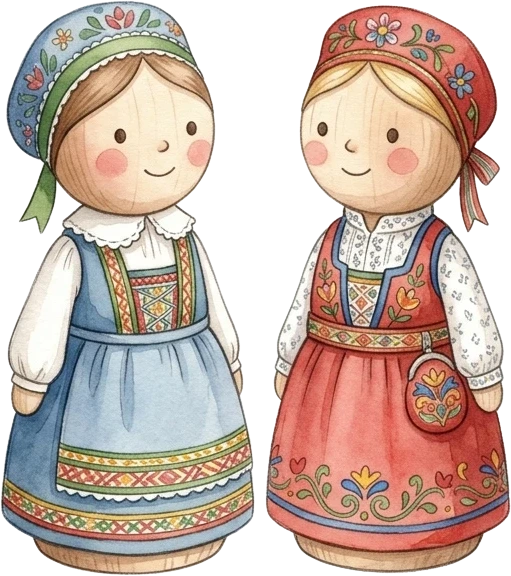
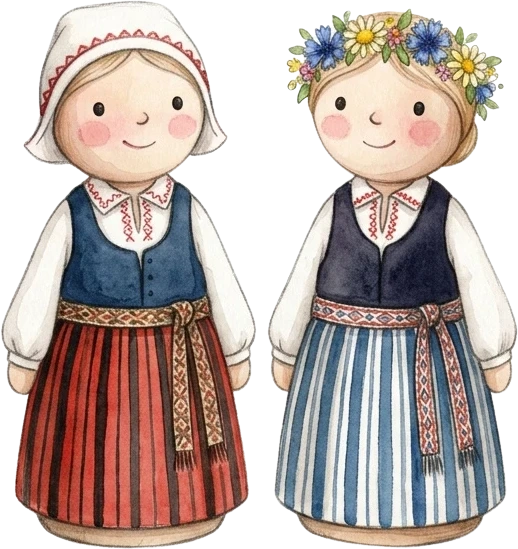
Estniska folkdockor med randiga kjolar istället för generisk nordisk dräkt
Bilden visade innan blommig klänning utan den randiga kjolen som är det
mest kännetecknande för äkta eesti rahvarõivad - matchar nu historietexten
om triibulised seelikud.

diff --git a/app/utils/scenes.ts b/app/utils/scenes.ts
@@ -88,7 +88,7 @@ export const MANTELSVG =
      ett historiekort istället för en pratbubbla, se ROOM_LORE/touchLoreSpot i room.vue. */
   '<g id="roomdolls" style="cursor:pointer" tabindex="0" role="button" aria-label="Tryck på folkdockorna">' +
   ' <ellipse cx="305.2" cy="141.5" rx="6.5" ry="1.6" fill="#2A1B0C" opacity=".22"/>' +
-  '<image href="/images/room/folk-dolls.webp" x="300.3" y="129.8" width="9.8" height="11"/></g>' +
+  '<image href="/images/room/folk-dolls.webp" x="300" y="129.8" width="10.38" height="11"/></g>' +
   /* illustrerad bild istället för handritad dalahäst (public/images/room/dala-horse.webp) -
      tryckbar (#roomdala), samma mönster som dockorna ovan. */
   '<g id="roomdala" style="cursor:pointer" tabindex="0" role="button" aria-label="Tryck på dalahästen">' +
